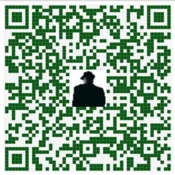
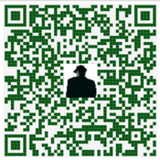
changed from alby to coinos

diff --git a/tips.html b/tips.html
@@ -116,9 +116,9 @@ h6 {
 </p>
 <p>
     <b>Bitcoin Lightning Network ⚡</b><br>
-    <img src="images/qr-crrdlx@getalby.com.png">
+    <img src="images/qr-crrdlx@coinos.io.png">
     <br>
-    <a href="https://getalby.com/p/crrdlx" target="_blank">https://getalby.com/p/crrdlx</a>
+    <a href="https://coinos.io/crrdlx" target="_blank">https://coinos.io/crrdlx</a>
 </p>
 <p>
     |
